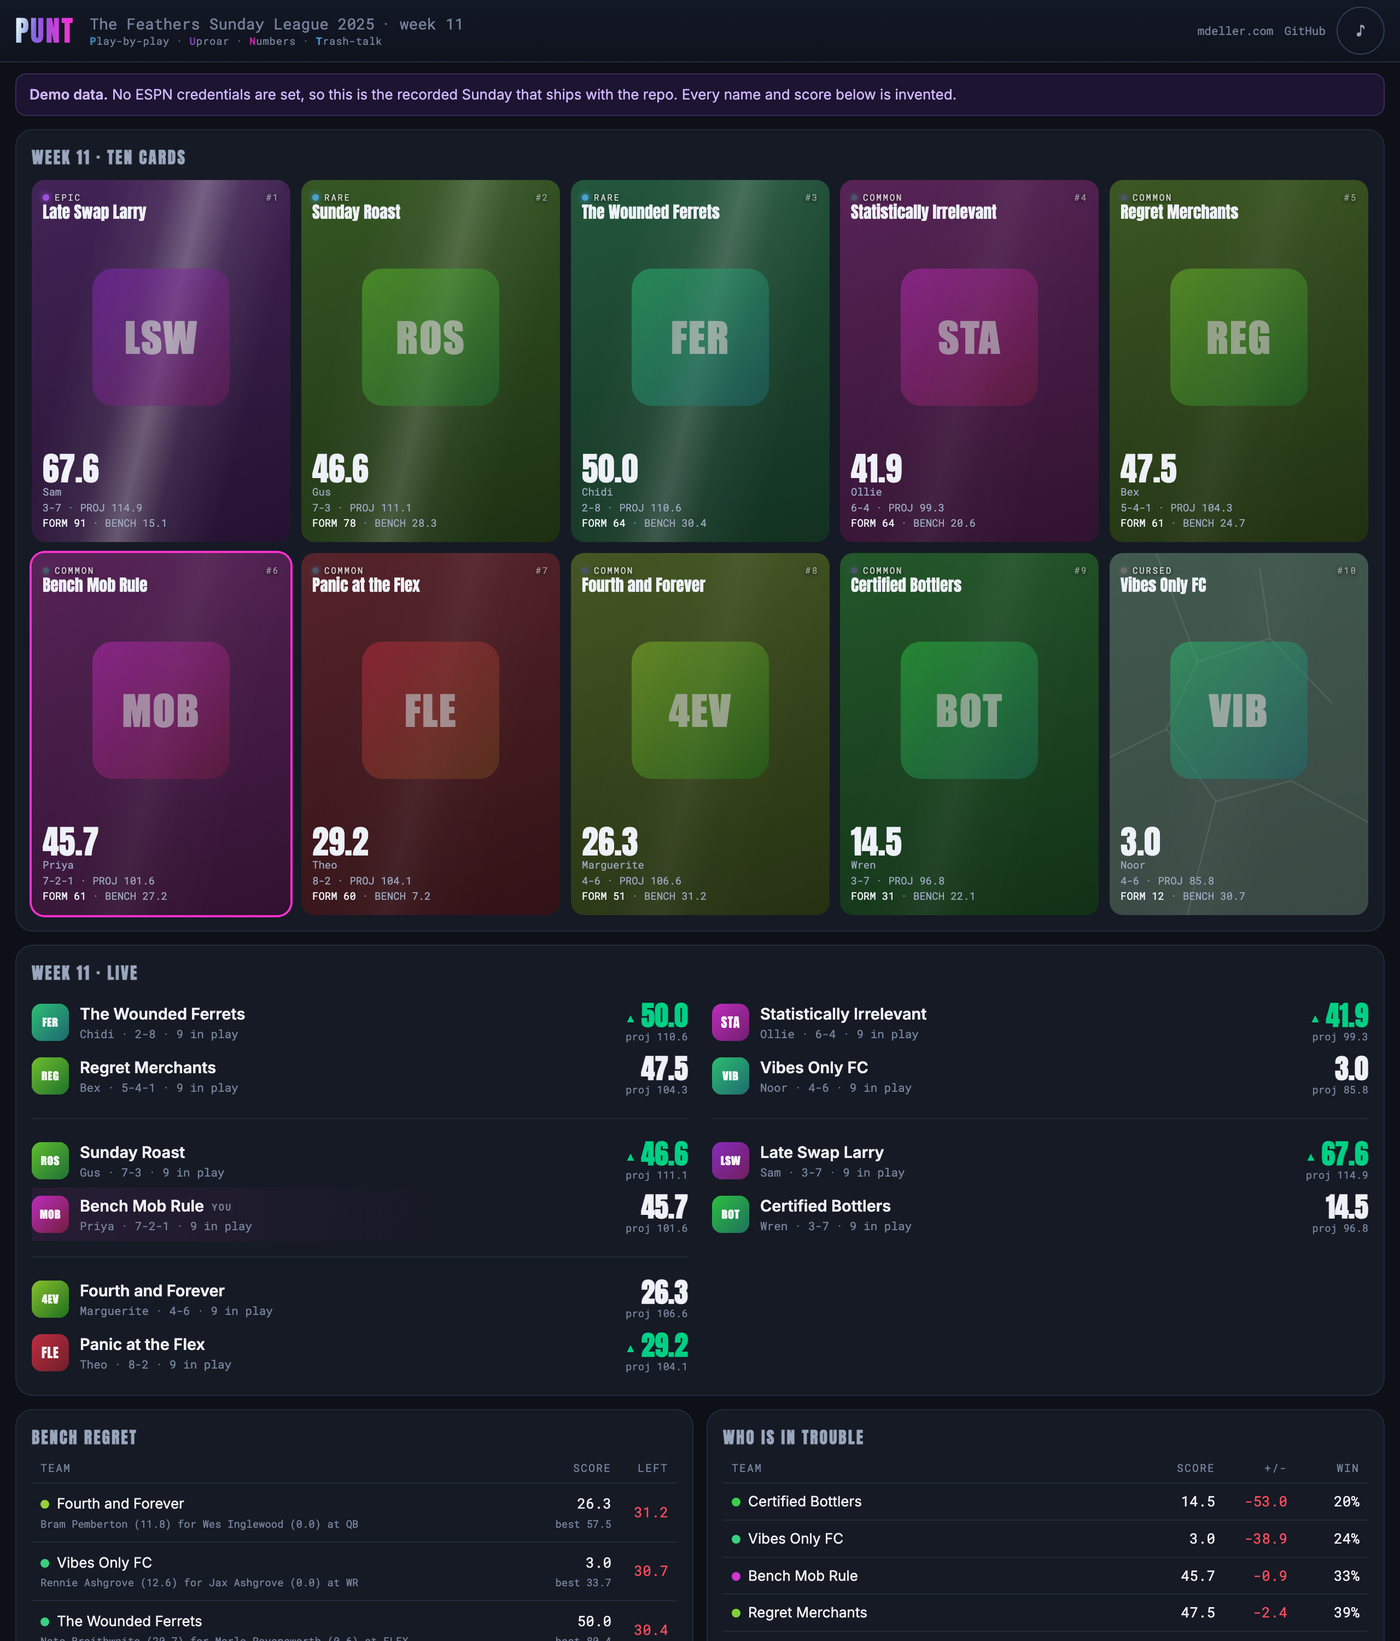
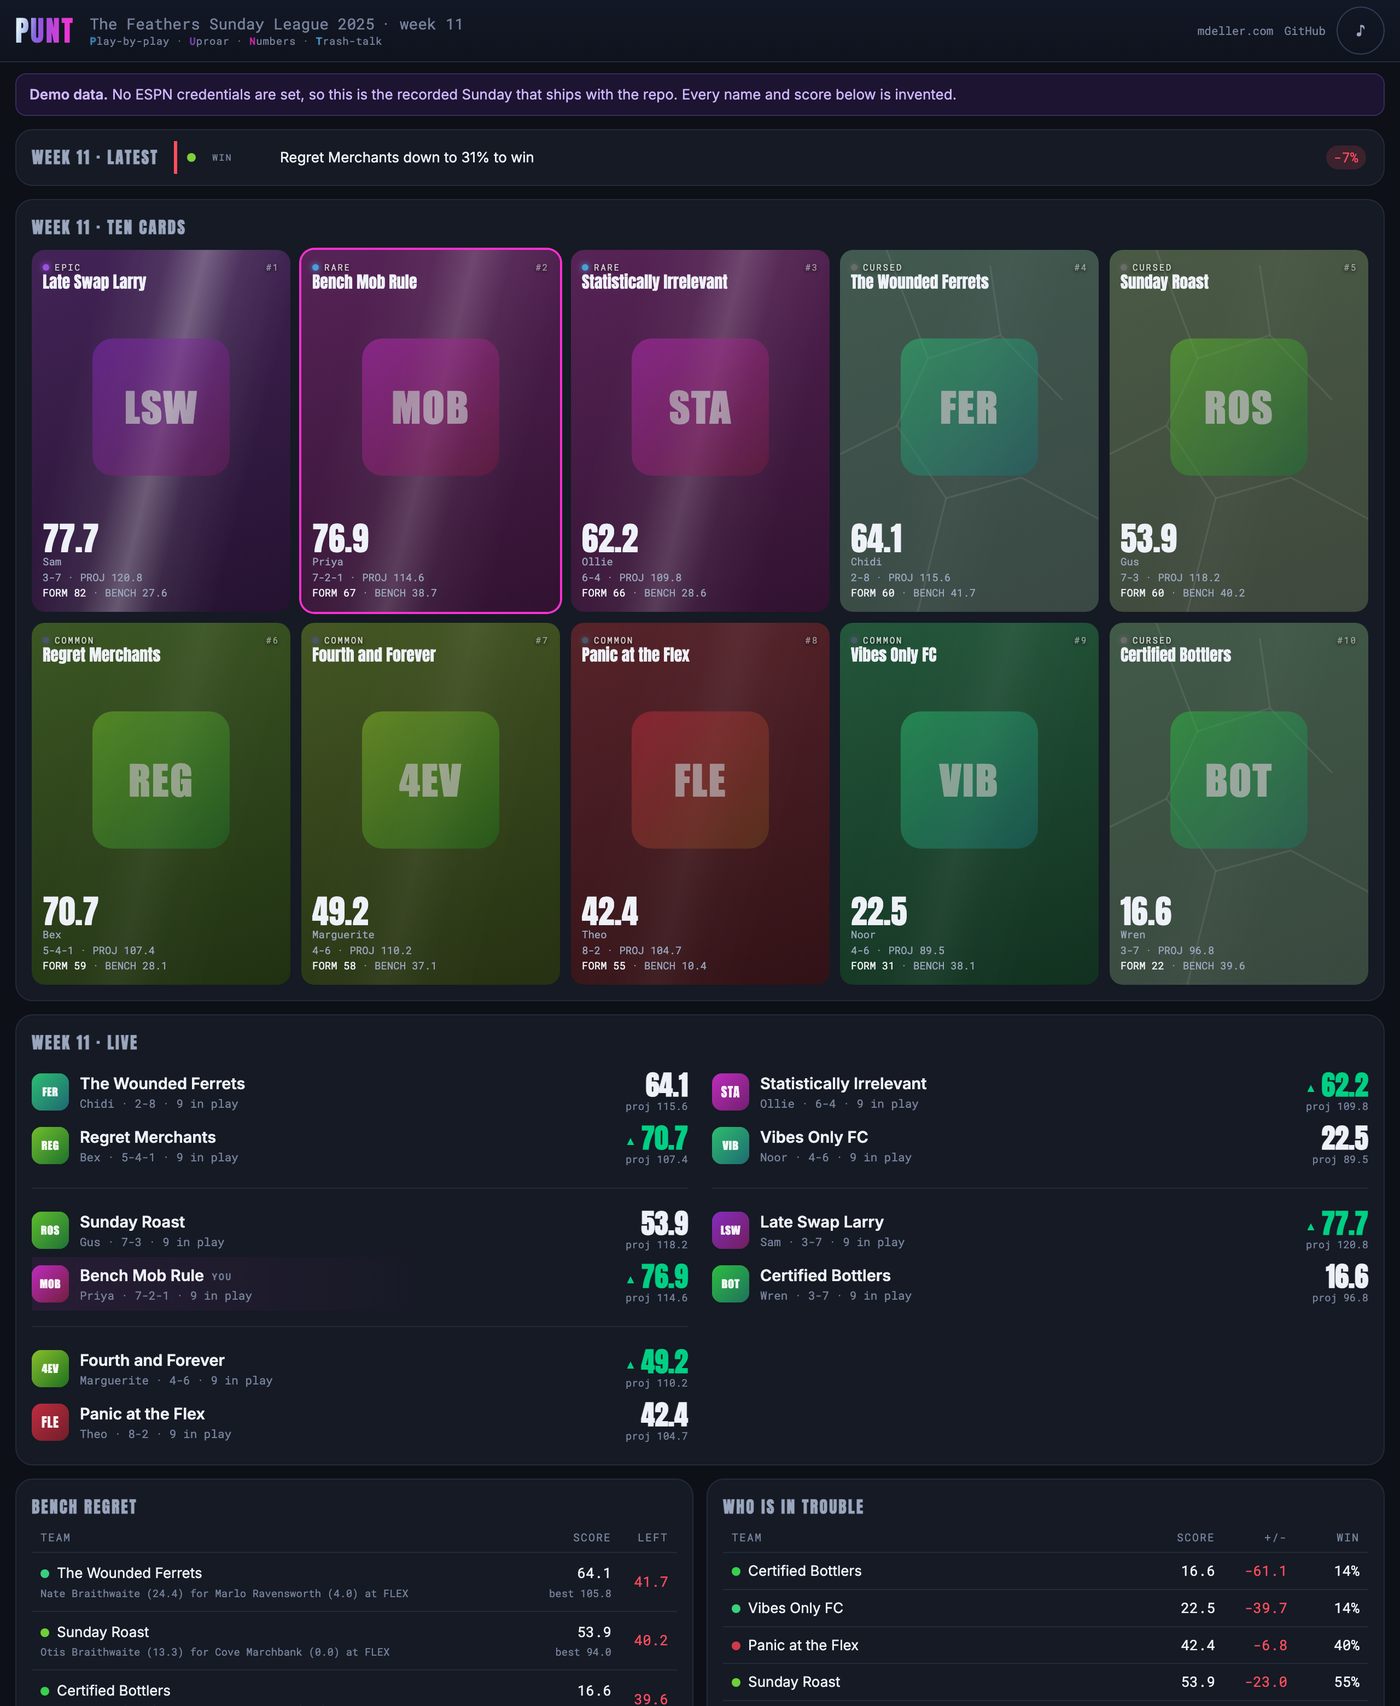
Retake the screenshots with the ticker in them, and fix "1 starters"
A screenshot of a page that has since grown a panel is a confident claim that
happens to be false, which is the rule this repo already carries about the pack
rip. The hero and desktop shots now show the LATEST strip; both grew slightly
taller to keep the same content below it.

Claude-Session: https://claude.ai/code/session_01S96ZhoDGbUNHK1rVCwukcY

diff --git a/tools/screenshot.py b/tools/screenshot.py
@@ -45,9 +45,9 @@ SHOTS = [
     # app. There is no `pack` shot any more -- the pack rip was removed, cards
     # load face-up -- and a screenshot of a feature that no longer exists is
     # worse than none, because it is a confident claim that happens to be false.
-    ("home", "/", 390, 2200, "PUNT on a phone: ten manager cards tiered by form, the week's matchups with live scores, bench regret, who is in trouble, and the commentary feed, all on one page", True),
+    ("home", "/", 390, 2300, "PUNT on a phone: a live ticker of what has just moved, ten manager cards tiered by form, the week's matchups with live scores, bench regret, who is in trouble, and the commentary feed, all on one page", True),
     ("album", "/album", 390, 900, "Ten manager cards, two to a row, each tinted in that team's own colour and tiered epic, rare, common or cursed, with the form rating printed under the score", True),
-    ("desktop", "/", 1280, 1500, "The same page on a desktop: five cards to a row, the week's matchups two to a row, and the panels paired left and right", True),
+    ("desktop", "/", 1280, 1560, "The same page on a desktop: the LATEST ticker along the top, five cards to a row, the week's matchups two to a row, and the panels paired left and right", True),
     ("chooser", "/", 390, 1000, "First run: pick which of the ten managers is holding this phone. Kept locally, with no account to make", False),
     ("cheer", "/cheer", 390, 844, "The Cheer panel: every NFL fixture of the week with the fantasy points still to come out of it, and which head-to-heads each one decides", True),
     ("multiverse", "/multiverse", 390, 1100, "Playoff odds from simulating the rest of the season against the real fixture list, with the playoff cut drawn across the table", True),

diff --git a/views/viewmodels.py b/views/viewmodels.py
@@ -809,9 +809,10 @@ def _week_in_summary(snap: LeagueSnapshot) -> list[dict[str, Any]]:
 
     hottest = max(cards, key=lambda c: c["beating"])
     if hottest["beating"]:
+        n = hottest["beating"]
         line("HOT", hottest,
-             f"{hottest['name']} have {hottest['beating']} starters beating projection",
-             str(hottest["beating"]), True)
+             f"{hottest['name']} have {n} starter{'' if n == 1 else 's'} beating projection",
+             str(n), True)
 
     multiverse = multiverse_view(snap)
     if multiverse.get("available") and multiverse["rows"]:
